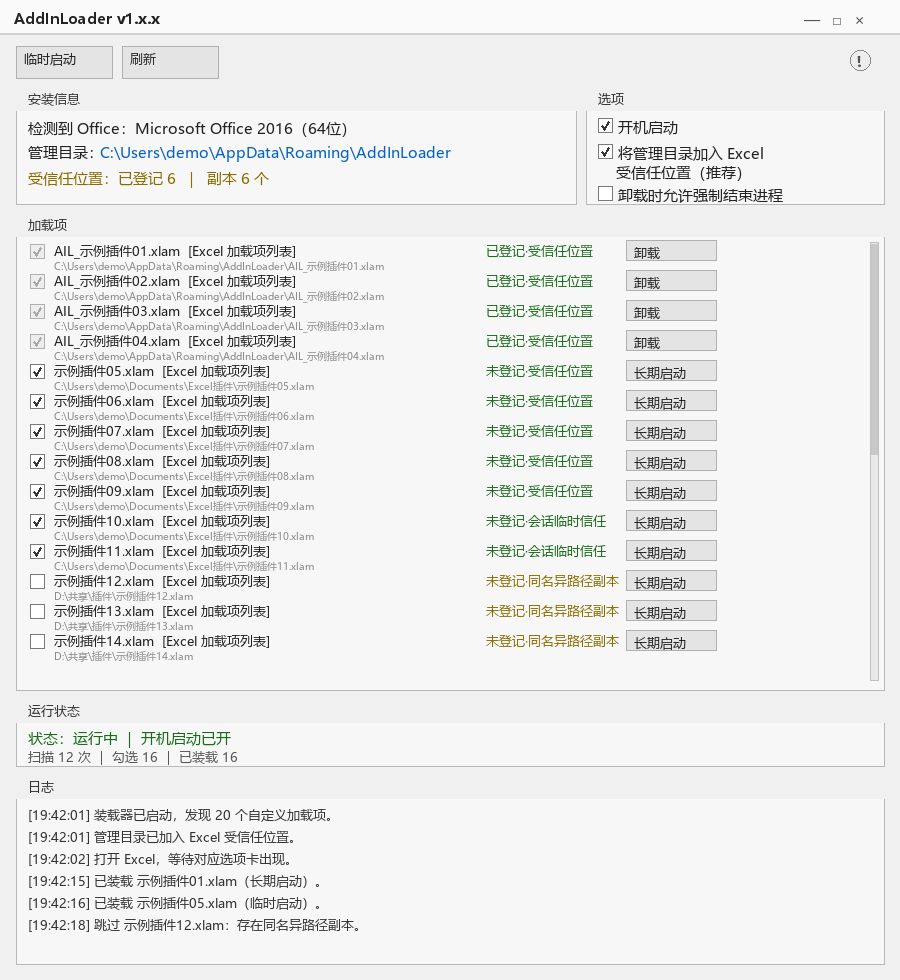
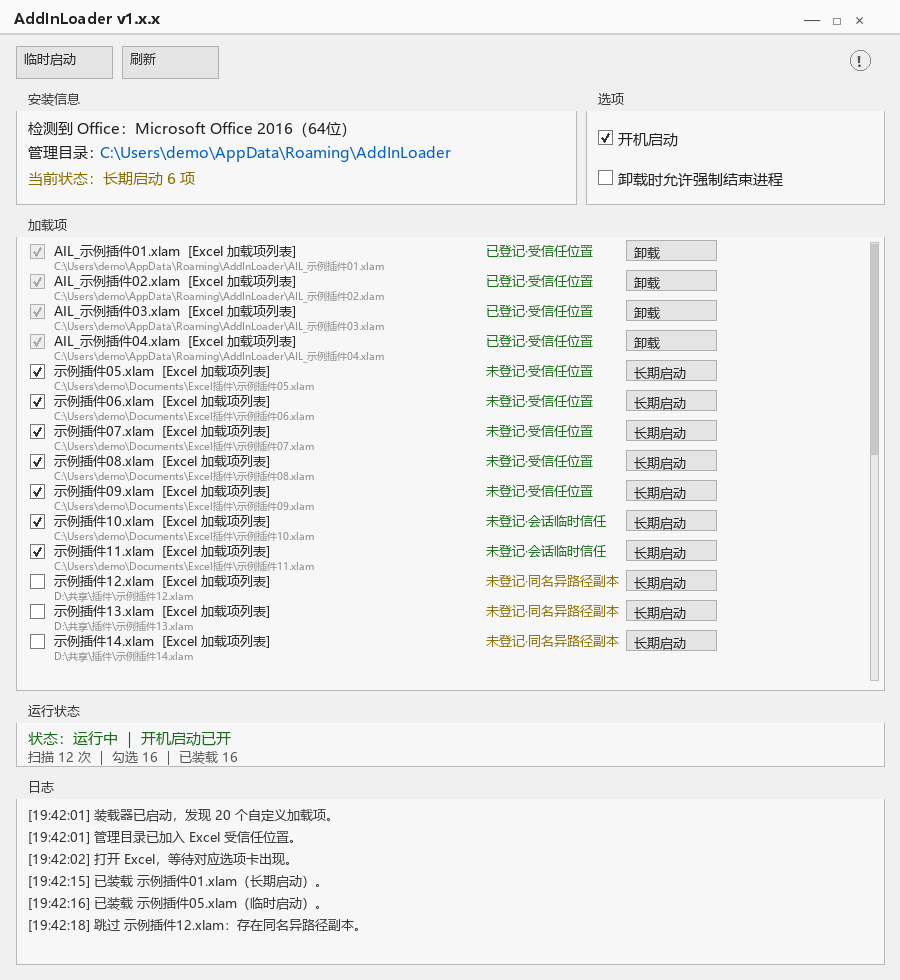
AddInLoader v1.0.3

Changed region(s): [[0.6533, 0.1224, 0.8711, 0.2143], [0.0311, 0.1531, 0.1867, 0.2143]]

diff --git a/tests/test_v101.py b/tests/test_v101.py
@@ -315,8 +315,11 @@ def test_version_arbitration():
     with patched(m, "_legacy_run_value", lambda: '"%s" --background' % OLDER):
         with patched(m, "_remove_legacy_run", lambda: fired.append("run")):
             with patched(m, "task_info", lambda: None):
-                notes = m.clear_lower_autostart([OLDER])
-    check("清除指向低版本的旧 Run 键", "run" in fired and "旧注册表启动项" in notes)
+                with patched(m, "set_autostart", lambda v: fired.append("set:%s" % v)):
+                    notes = m.clear_lower_autostart([OLDER])
+    check("清除指向低版本的旧 Run 键并重建",
+          "run" in fired and "set:True" in fired
+          and "旧启动项已改指向当前版本" in notes)
 
     fired = []
     with patched(m, "_legacy_run_value", lambda: None):
@@ -548,67 +551,47 @@ def test_silent_update():
         def after(self, _ms, fn):
             self.jobs.append(fn)
 
-    def run_silent(tag, url, err, answer=True):
-        calls, asks, logs = [], [], []
-        root = JobRoot()
-        stub = object.__new__(m.LoaderApp)
-        stub.root = root
-        stub.append_log = logs.append
-        with patched(m, "fetch_latest_release", lambda: (tag, url, err)), \
-                patched(m.threading, "Thread", SyncThread), \
-                patched(m.messagebox, "askyesno",
-                        lambda *_a, **_k: asks.append(True) or answer), \
-                patched(m.webbrowser, "open", lambda u: calls.append(u)):
-            m.LoaderApp.silent_check_update(stub)
-            root.jobs.pop(0)()
-        return calls, asks, logs
-
-    check("静默检查-无更新不弹窗不打开但记录日志",
-          run_silent("v" + m.VERSION, "https://x", None)
-          == ([], [], ["未发现新版本，当前版本 v%s。" % m.VERSION]))
-    check("静默检查-失败不弹窗不打开但记录日志",
-          run_silent("v2.0.0", "https://x", "网络失败")
-          == ([], [], ["检查更新失败：网络失败"]))
-    check("静默检查-有新版弹窗确认后打开并记录日志",
-          run_silent("v2.0.0", "https://new", None, True)
-          == (["https://new"], [True],
-              ["发现新版本 v2.0.0，当前版本 v%s。" % m.VERSION,
-               "确认前往发布页：v2.0.0", "打开发布页 https://new"]))
-    check("静默检查-有新版取消则不打开但记录日志",
-          run_silent("v2.0.0", "https://new", None, False)
-          == ([], [True],
-              ["发现新版本 v2.0.0，当前版本 v%s。" % m.VERSION,
-               "取消前往发布页：v2.0.0"]))
-
-    def run_manual(tag, url, err, answer=True):
-        calls, asks, logs, runs, infos = [], [], [], [], []
+    def run_check(silent, manifest, err, choice="skip"):
+        calls, choices, logs, infos, downloaded = [], [], [], [], []
         root = JobRoot()
         stub = object.__new__(m.LoaderApp)
         stub.root = root
         stub.append_log = logs.append
         stub.open_release_page = lambda u: calls.append(u)
-        with patched(m, "fetch_latest_release", lambda: (tag, url, err)), \
+        stub._handle_update_found = lambda parent, man, latest: choices.append(latest)
+        with patched(m, "fetch_update_manifest", lambda: (manifest, err)), \
                 patched(m.threading, "Thread", SyncThread), \
-                patched(m.messagebox, "askyesno",
-                        lambda *_a, **_k: asks.append(True) or answer), \
+                patched(m.messagebox, "askyesno", lambda *a, **k: False), \
                 patched(m.messagebox, "showinfo", lambda *a, **k: infos.append(a)):
-            m.LoaderApp.check_for_update(stub, root)
+            if silent:
+                m.LoaderApp.silent_check_update(stub)
+            else:
+                m.LoaderApp.check_for_update(stub, root)
             root.jobs.pop(0)()
-        return calls, logs, runs, infos
+        return calls, choices, logs, infos
 
-    check("手动检查-无新版记录未发现新版本",
-          run_manual("v" + m.VERSION, "https://x", None)[1]
-          == ["未发现新版本，当前版本 v%s。" % m.VERSION])
-    check("手动检查-确认后打开发布页并记录日志",
-          run_manual("v2.0.0", "https://new", None, True)[:2]
-          == (["https://new"],
-              ["发现新版本 v2.0.0，当前版本 v%s。" % m.VERSION,
-               "确认前往发布页：v2.0.0"]))
-    check("手动检查-取消则不打开并记录日志",
-          run_manual("v2.0.0", "https://new", None, False)[:2]
-          == ([],
-              ["发现新版本 v2.0.0，当前版本 v%s。" % m.VERSION,
-               "取消前往发布页：v2.0.0"]))
+    latest = {"version": "v2.0.0", "exe": "AddInLoader_v2.0.0.exe",
+              "sha256": "0" * 64, "url": "https://x/a.exe"}
+
+    check("静默检查-无更新不打扰但记日志",
+          run_check(True, {"version": "v" + m.VERSION}, None)
+          == ([], [], ["当前已是最新版 v%s。" % m.VERSION], []))
+    check("静默检查-失败不打扰但记日志",
+          run_check(True, None, "网络失败")
+          == ([], [], ["检查更新失败：网络失败"], []))
+    check("静默检查-有新版走三选一分派",
+          run_check(True, latest, None)[1] == ["v2.0.0"])
+    check("手动检查-无新版弹提示",
+          run_check(False, {"version": "v" + m.VERSION}, None)[3] != [])
+    check("手动检查-失败弹确认窗",
+          "检查更新失败" in "".join(run_check(False, None, "网络失败")[2]))
+    check("手动检查-有新版同样走三选一",
+          run_check(False, latest, None)[1] == ["v2.0.0"])
+    with open(SRC, encoding="utf-8") as _f:
+        _src_text = _f.read()
+    check("静默与手动共用同一实现",
+          "self.check_for_update(self.root, silent=True)" in _src_text
+          and "def check_for_update(self, parent, silent=False):" in _src_text)
 
     # open_release_page：URL 为空回退默认发布页，且始终写日志
     opened = []
@@ -652,18 +635,18 @@ def test_api_upgrade_all_versions():
         check("%s 含 API 清单入口" % rel,
               'MANIFEST_API = "https://api.github.com/repos/' in src
               and "base64.b64decode(envelope" in src)
-        check("%s 无一键升级模块" % rel,
+        check("%s 无旧式一键升级模块" % rel,
               "def run_upgrade" not in src
-              and "def download_file" not in src
               and "def write_upgrade_bat" not in src
-              and "def start_upgrade_bat" not in src
-              and "_UPDATE_ASSET" not in src
-              and "octet-stream" not in src
-              and "代理" not in src)
-        check("%s 保留静默检查与发布页引导" % rel,
+              and "def start_upgrade_bat" not in src)
+        check("%s 保留静默检查与三选一更新" % rel,
               "def silent_check_update(self):" in src
               and "def open_release_page(self, url):" in src
-              and "是否前往发布页下载？" in src)
+              and "def ask_update_choice(self, parent, latest):" in src
+              and 'text="直接下载"' in src
+              and 'text="发布页"' in src
+              and 'text="暂不更新"' in src
+              and "是否前往发布页下载？" not in src)
 
 
 def test_trust_cache_invalidation():
@@ -708,6 +691,28 @@ def test_trust_cache_invalidation():
         check("remove_trusted 删除后清缓存", m._TRUST_CACHE["ts"] == 0.0)
 
 
+def test_trust_option_removed_in_v103():
+    """v1.0.3 去掉受信任位置勾选框，长期启动无条件登记；历史版本保留原样。"""
+    base = os.path.dirname(SRC)
+    v103 = open(SRC, encoding="utf-8").read()
+    check("v1.0.3 无受信任位置勾选框",
+          "var_trust" not in v103 and "将管理目录加入" not in v103)
+    check("v1.0.3 长期启动无条件登记受信任位置",
+          "trusted_ok, trusted_msg = ensure_trusted_location()" in v103
+          and v103.count("if self.var_trust.get():") == 0)
+    check("v1.0.3 登记失败不中止长期启动",
+          "受信任位置登记失败（%s）；" in v103
+          and "加载项仍会登记" in v103
+          and 'trust_note = "未加入受信任位置"' in v103)
+    check("v1.0.3 版本号为 1.0.3", 'VERSION = "1.0.3"' in v103)
+    for rel in ("AddInLoader_v1.0.0_InitialRelease/AddInLoader_v1.0.0.py",
+                "AddInLoader_v1.0.1_P0SecurityFix/AddInLoader_v1.0.1.py",
+                "AddInLoader_v1.0.2_TrustCacheFix/AddInLoader_v1.0.2.py"):
+        src = open(os.path.join(base, rel), encoding="utf-8").read()
+        check("%s 仍保留勾选框（历史版本不改）" % rel,
+              "var_trust" in src and "将管理目录加入" in src)
+
+
 if __name__ == "__main__":
     test_trust_states()
     test_trust_cache_invalidation()
@@ -720,4 +725,5 @@ if __name__ == "__main__":
     test_upgrade_flow()
     test_silent_update()
     test_api_upgrade_all_versions()
+    test_trust_option_removed_in_v103()
     print("\nALL PASS: %d checks" % len(PASS))

diff --git a/AddInLoader.py b/AddInLoader.py
@@ -53,7 +53,7 @@ v1.0.2 修复：
   AddInLoader.exe --xlam <路径>   仅装载指定 xlam（排障用，跳过自动发现）
 """
 # 版本信息（统一在此维护，随版本更新）
-VERSION = "1.0.2"
+VERSION = "1.0.3"
 
 import ctypes
 import base64
@@ -1825,14 +1825,6 @@ class LoaderApp:
             opt, text="开机启动",
             variable=self.var_autostart,
             command=self.on_autostart_ui).pack(anchor="w", padx=8, pady=(6, 2))
-        self.var_trust = tk.BooleanVar(value=True)
-        trust_cb = ttk.Checkbutton(
-            opt, text="将管理目录加入 Excel 受信任位置（推荐）",
-            variable=self.var_trust)
-        trust_cb.pack(anchor="w", padx=8, pady=(2, 6))
-        ToolTip(trust_cb,
-                "勾选后打开 Excel 不再弹出“禁用宏/启用内容”安全提示；"
-                "不勾选也可以长期启动，但打开 Excel 时可能需手动点一次“启用内容”。")
         self.var_force = tk.BooleanVar(
             value=bool(read_prefs().get(FORCE_PREF_KEY, False)))
         force_cb = ttk.Checkbutton(
@@ -2400,15 +2392,14 @@ class LoaderApp:
         if not copy:
             self.append_log("长期启动 %s 失败：%s" % (os.path.basename(path), how))
             return
-        if self.var_trust.get():
-            trusted_ok, trusted_msg = ensure_trusted_location()
-            if not trusted_ok and trusted_msg != "已受信任":
-                self.append_log("长期启动 %s 失败：受信任位置登记失败（%s）"
-                                % (os.path.basename(path), trusted_msg))
-                return
-            trust_note = "已加入受信任位置"
-        else:
+        trusted_ok, trusted_msg = ensure_trusted_location()
+        if not trusted_ok and trusted_msg != "已受信任":
+            self.append_log("警告：长期启动 %s 的受信任位置登记失败（%s）；"
+                            "加载项仍会登记，但 Excel 不会自动装载，状态显示为未受信任"
+                            % (os.path.basename(path), trusted_msg))
             trust_note = "未加入受信任位置"
+        else:
+            trust_note = "已加入受信任位置"
         ok, msg = register_addin(copy)
         if not ok:
             self.append_log("长期启动 %s 失败：%s" % (os.path.basename(path), msg))
@@ -2437,7 +2428,7 @@ class LoaderApp:
                     provision(app, hwnd, copy)
         else:
             self.append_log("警告：管理目录未加入 Excel 受信任位置，%s 已登记但不会自动装载；"
-                            "请在选项区勾选受信任位置" % os.path.basename(copy))
+                            "请检查 Excel 受信任位置设置" % os.path.basename(copy))
         self.kick.set()
         self.refresh()
         self.append_log("已长期启动 %s（%s，%s，登记 %s）%s"

diff --git a/README.md b/README.md
@@ -1,6 +1,6 @@
-# AddInLoader v1.0.2
+# AddInLoader v1.0.3
 
-[![Release v1.0.2](https://img.shields.io/badge/Release-v1.0.2-217346)](https://github.com/YehOlt/AddInLoader/releases)
+[![Release v1.0.3](https://img.shields.io/badge/Release-v1.0.3-217346)](https://github.com/YehOlt/AddInLoader/releases)
 [![License: MIT](https://img.shields.io/badge/License-MIT-217346)](https://github.com/YehOlt/AddInLoader/blob/main/LICENSE)
 ![Platform Windows](https://img.shields.io/badge/Platform-Windows-0078D6?logo=windows&logoColor=white)
 ![Excel 加载项](https://img.shields.io/badge/Excel-%E5%8A%A0%E8%BD%BD%E9%A1%B9-217346?logo=microsoftexcel&logoColor=white)
@@ -56,9 +56,9 @@
 
 - **加载项列表**：自动发现已登记的加载项，默认全选；每行显示「已登记/未登记」与四种信任状态。鼠标滚轮或右侧滚动条可上下滚动。
 - **临时启动**：点顶部按钮选择 xlam，立即装进所有已打开的 Excel。不写注册表、不复制文件；该文件按「会话临时信任」处理，退出装载器或取消勾选即失效。
-- **长期启动**：每行点「长期启动」，把 xlam 复制到管理目录（副本加 `AIL_` 前缀）、按选项登记受信任位置、写入 OPEN 登记；已登记项勾选框锁定，只能用「卸载」移除。
+- **长期启动**：每行点「长期启动」，把 xlam 复制到管理目录（副本加 `AIL_` 前缀）、自动把该目录登记为 Excel 受信任位置、写入 OPEN 登记；已登记项勾选框锁定，只能用「卸载」移除。
 - **卸载**：每行点「卸载」，撤销登记、删除目录副本、清除受信任位置（若无其它长期副本）。若 Excel 正在运行，先按第 4 条流程等待并确认，不再直接关闭进程。
-- **选项区**：开机启动、受信任位置、卸载时允许强制结束进程（高级，默认关）。
+- **选项区**：开机启动、卸载时允许强制结束进程（高级，默认关）。
 - **开机启动自动取消**：当列表里**没有任何可装载目标**（全部取消勾选，或加载项文件被删除）时，开机启动会自动取消，选项区勾选同步取消；只要还剩一个有效目标就保留。启动后短时间内不判断，避免自动发现尚未完成时误取消。
 - **刷新**：重新扫描已登记的加载项。
 - **管理目录**：安装信息区蓝色路径可点击，用资源管理器打开。配置与加载项副本都保存在该目录。
@@ -93,9 +93,7 @@
 5. **新版自动接管**：电脑上同时有多个版本时，用最新的那个。旧版先开着也没事，新版启动后会自动接手；新版已经开着，旧版就起不来。认不出来的版本一律让路，不会误伤。
 6. **检查更新**：关于窗口里点「检查更新」。有新版会问你要不要去下载页，你自己下载安装；已经是最新就告诉你「当前已是最新版」；网络不通也可以点开网页看看。
 7. **后台悄悄查新版**：每次打开都会在后台悄悄查一次有没有新版，很快，不耽误你用。没有新版或断网时一声不吭；发现新版才弹窗问你，你不点就什么也不会发生。跟手动「检查更新」互不干扰。
-8. **设置改完立刻生效**：你在 Excel 里设置或取消受信任位置后，界面马上跟着变，不会再出现前后矛盾的状态。
-
-> 提醒：如果管理文件夹没在 Excel 里设为受信任位置，长期启动就**不会自动装加载项**，界面会显示「未受信任」并提示你。去选项区勾一下受信任位置，再重新启动就行。这是故意设的安全门槛，不是出了问题。
+8. **设置改完立刻生效**：长期启动后自动把管理目录设为 Excel 受信任位置，界面状态马上跟着变；卸载掉最后一个长期副本时自动撤销。若登记失败，加载项仍会装好，但状态显示红色「未受信任」并给出提示。
 
 ## 许可
 

diff --git a/upgrade_log_v1.0.3.md b/upgrade_log_v1.0.3.md
@@ -1,0 +1,30 @@
+# AddInLoader v1.0.3 升级日志
+
+版本描述：长期启动自动登记受信任位置的补丁版本。基于 v1.0.2，去掉选项区的受信任位置勾选框，长期启动时无条件把管理目录登记为 Excel 受信任位置。
+
+## 修复清单（fix-list）
+
+| # | 级别 | 改动 | 函数/结构锚点 | 说明 |
+|---|---|---|---|---|
+| 1 | P2 | 去掉受信任位置勾选框 | `LoaderApp.__init__` 选项区 | 删除 `var_trust` 变量、对应 Checkbutton 及 ToolTip。此前该勾选框看起来像状态开关，实际只是「长期启动时是否顺手登记受信任位置」的动作开关；取消勾选仍会复制副本并写 OPEN 登记，只是目录不受信导致 Excel 拦住宏，界面状态与预期不符。既然选择长期启动即表示信任该文件，此确认步骤多余。 |
+| 2 | P2 | 长期启动无条件登记受信任位置 | `LoaderApp.on_register()` | 原 `if self.var_trust.get():` 分支改为无条件调用 `ensure_trusted_location()`；登记失败不中止，照样复制副本并写 OPEN 登记，日志记警告说明「Excel 不会自动装载」，状态栏由 `trust_state()` 自然算出红色「未受信任」。`trust_note` 按实际结果写「已加入/未加入受信任位置」。 |
+| 3 | P2 | 修正失效的警告文案 | `LoaderApp.on_register()` | 警告从「请在选项区勾选受信任位置」改为「请检查 Excel 受信任位置设置」，不再指向已删除的勾选框。 |
+| 4 | P2 | 文档与界面预览同步 | `README.md`、`_draw_screenshot.py` | README 长期启动说明改为自动登记、选项区列表去掉受信任位置、删去针对勾选框的提醒段；主界面预览图选项区去掉该勾选框，安装信息区文案改为与代码一致的「当前状态：长期启动 N 项」。 |
+
+## 明确未做（不在本版范围）
+
+- **未启动 Excel/WPS 做装载联动实测**：未连接真实 Excel 宿主。
+- **任务计划程序联动未做本机实测**：未执行 `schtasks.exe`，回归脚本继续用模拟覆盖各分支。
+
+## 行为变化与兼容提示
+
+长期启动不再询问受信任位置，直接自动登记；登记失败不中止，加载项照常复制到管理目录并写入 OPEN 登记，但 Excel 不会自动装载，状态栏红色显示「未受信任」并给出日志警告。此前勾选过「不加入受信任位置」的用户，升级后长期启动会改为自动登记。临时启动不受影响，仍按「会话临时信任」处理、不写注册表。
+
+## 回归验证
+
+**90 项全部 PASS**（含新增 6 项：v1.0.3 无勾选框、无条件登记、登记失败不中止、版本号正确，以及历史三版本保留勾选框不变）。
+
+## 文件清单
[1 lines of base64/hex data omitted]
+- AddInLoader_v1.0.3.py
+- upgrade_log_v1.0.3.md
